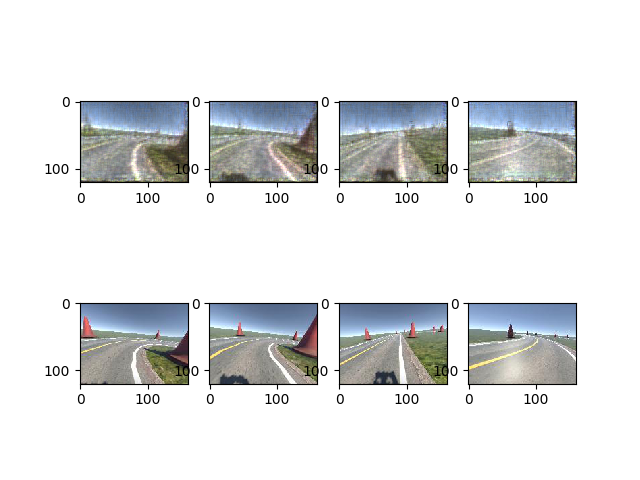
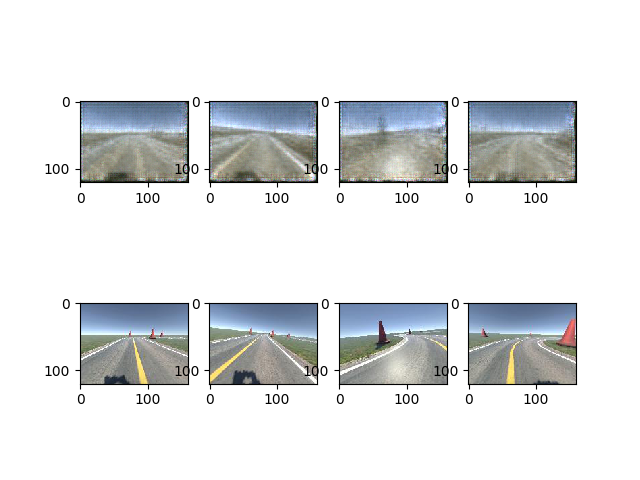
joep

diff --git a/srcs/tester.py b/srcs/tester.py
@@ -25,40 +25,9 @@ agent = neural.agent
 while (len(agent.memory) <  config_Agent.batch_size):
 	neural.do_races(1)
 
-# batch_size = min(agent.config.batch_size, len(agent.memory))
-# batch = agent.memory.sample(batch_size)
-# train_dataloader = DataLoader(agent.memory, batch_size=batch_size, shuffle=True)
-# loader_batch = next(iter(train_dataloader))
 
-# batch = agent.replay_memory()
-# s = batch[0]
-# ss = batch[2]
-# a = batch[1]
-# r = batch[3]
-# d = batch[4]
-# d = ~d
-# d = d.to(torch.int64)
-
-# qs = agent.model.forward(s)
-# qss = agent.target_model.forward(s)
-# qss_max, _  = torch.max(qss, dim = 1)
-
-# a_bin = utils.val_to_bin(a[0], [-3.0, 3.0], 7).to(torch.int64)
-# a2_bin = utils.val_to_bin(a[1], [1.0, 1.0], 1).to(torch.int64)
-# bin = a_bin * (a2_bin + 1)
-# # y.scatter(bin)
-# hot = torch.nn.functional.one_hot(bin, 7)
-# targets = qs.clone()
-# targets.detach()
-# targets = hot * (r.view(6, -1) + qss_max.view(6, -1) * d.view(6, -1)) - hot * qs + qs
-# # target = hot * a_bin
-# # torch.reshape(r, (6, 1)) * hot
-
-
-# _, actions_bin = torch.max(qs, axis = 1)
-
+agent.update_target_model_counter += 1
 agent.optimizer.zero_grad()
-
 
 batch_size = min(agent.config.batch_size, len(agent.memory))
 # batch = agent.memory.sample(batch_size)
@@ -66,12 +35,14 @@ train_dataloader = DataLoader(agent.memory, batch_size=batch_size, shuffle=True)
 batch = next(iter(train_dataloader)) # s, a, s', r, d
 s = batch[0].to(torch.float32)
 ss = batch[2].to(torch.float32)
-a = batch[1].to(torch.float32)
+a = batch[1]
+for i in range(len(a)):
+	a[i] = a[i].to(torch.float32)
 r = batch[3].to(torch.float32)
 d = batch[4]
 d = ~d
 d = d.to(torch.int64)
-
+print(f"{s.size() = } {ss.size() = } {a[0].size() = } {a[1].size() = } {r.size() = }")
 qs = agent.model.forward(s).cpu()
 qss = agent.target_model.forward(ss).cpu()
 qss_max, _  = torch.max(qss, dim = 1)
@@ -79,13 +50,20 @@ action_space_size = [*agent.config.action_space_size]
 a_bin = utils.val_to_bin(a[0], agent.config.action_space_boundaries[0], action_space_size[0]).to(torch.int64)
 a2_bin = utils.val_to_bin(a[1], agent.config.action_space_boundaries[1], action_space_size[1]).to(torch.int64)
 bin = a_bin * (a2_bin + 1)
+print(f"{a[0] = } {a_bin = } \n{a[1] = } {a2_bin = } \n{bin =}")
 # y.scatter(bin)
 hot = torch.nn.functional.one_hot(bin, action_space_size[1] * action_space_size[0])
+print(f"{hot = }")
 targets = qs.clone()
-targets.detach()
+targets = targets.detach()
 targets = hot * (r.view(batch_size, -1) + agent.config.lr * (qss_max.view(batch_size, -1) * d.view(batch_size, -1))) - hot * qs + qs
+print(f"{qs = } {targets = }")
 
 error = agent.criterion(qs, targets).to(torch.float32)
 error.backward()
 agent.optimizer.step()
+
+if (agent.update_target_model_counter % agent.config.target_model_update_frequency == 0):
+	agent._update_target_model
+
 

diff --git a/srcs/NeuralPlayerDummy.py b/srcs/NeuralPlayerDummy.py
@@ -90,15 +90,20 @@ class NeuralPlayerDummy():
 					self.simulator.restart_simulator()
 					self.env = self.simulator.env
 
-
+			# state = self.env.reset()
+			# new_state, reward, done, info = self.env.step([0, 1])
 			processed_state = self.preprocessor.process(state)
 			done = self._is_over_race(info, done)
 			Logger.debug(f"Initial CTE: {info['cte']}")
 			done = False
 			
+
+
 			iteration = 0
 			while (not done):
+
 				action = self.agent.get_action(processed_state, e)
+				action = [0.0, 1.0]
 				Logger.debug(f"action: {action}")
 				old_info = info
 				new_state, reward, done, info = self.env.step(action)
@@ -106,7 +111,8 @@ class NeuralPlayerDummy():
 				done = self._is_over_race(info, done)
 				self.agent.memory.add(processed_state, action, new_processed_state, reward, done)
 				processed_state = new_processed_state
-				Logger.debug("cte:", info["cte"] + 2.25)
+				Logger.debug(f"cte: {info['cte'] + 2.25}")
+				# print("info:", info)
 				iteration += 1
 
 			self.add_score(iteration)

diff --git a/srcs/PreprocessingDummy.py b/srcs/PreprocessingDummy.py
@@ -24,7 +24,7 @@ class Preprocessing():
 		self.config  		= config
 		self.history 		= [None for _ in range(config.frame_skip)]
 		self.skip_counter 	= -1
-		self.AutoEncoder = self._init_AutoEncoder()
+		# self.AutoEncoder = self._init_AutoEncoder()
 
 	def _init_AutoEncoder(self):
 		ae = PoolingAutoEncoder(self.config.config_AutoEncoder)
@@ -50,11 +50,11 @@ class Preprocessing():
 
 	def process(self, state):
 		Logger.info(f"Processing.\nIn shape: {state.shape}")
-		# state = self.gray(state)
-		# state = self.resize(state, self.config.shrink_size)
-		# state = self.stack(state)
-		state = self._autoencoder_prepare(state)
-		state = self.AutoEncoder.encode(state)
+		state = self.gray(state)
+		state = self.resize(state, self.config.shrink_size)
+		state = self.stack(state)
+		# state = self._autoencoder_prepare(state)
+		# state = self.AutoEncoder.encode(state)
 		Logger.debug(f"Out shape: {state.shape}")
 		return state
 

diff --git a/srcs/configDummy.py b/srcs/configDummy.py
@@ -84,7 +84,7 @@ config_Preprocessing.stack_size         = 4
 config_Preprocessing.frame_skip         = 2  # interval in frames between the stacked frames
 config_Preprocessing.shrink_size        = (80, 80) # * This does not remove the channels and generate a (60, 60) output. Channels are preserved :input (100, 100, 3) => (60, 60, 3)
 config_Preprocessing.output_size        = (config_Preprocessing.stack_size, *config_Preprocessing.shrink_size) #*  C * H * W CHANNELS FIRST
-config_Preprocessing.load_AutoEncoder	= False
+config_Preprocessing.load_AutoEncoder	= True
 
 
 # -----------------------------------------------------------------
